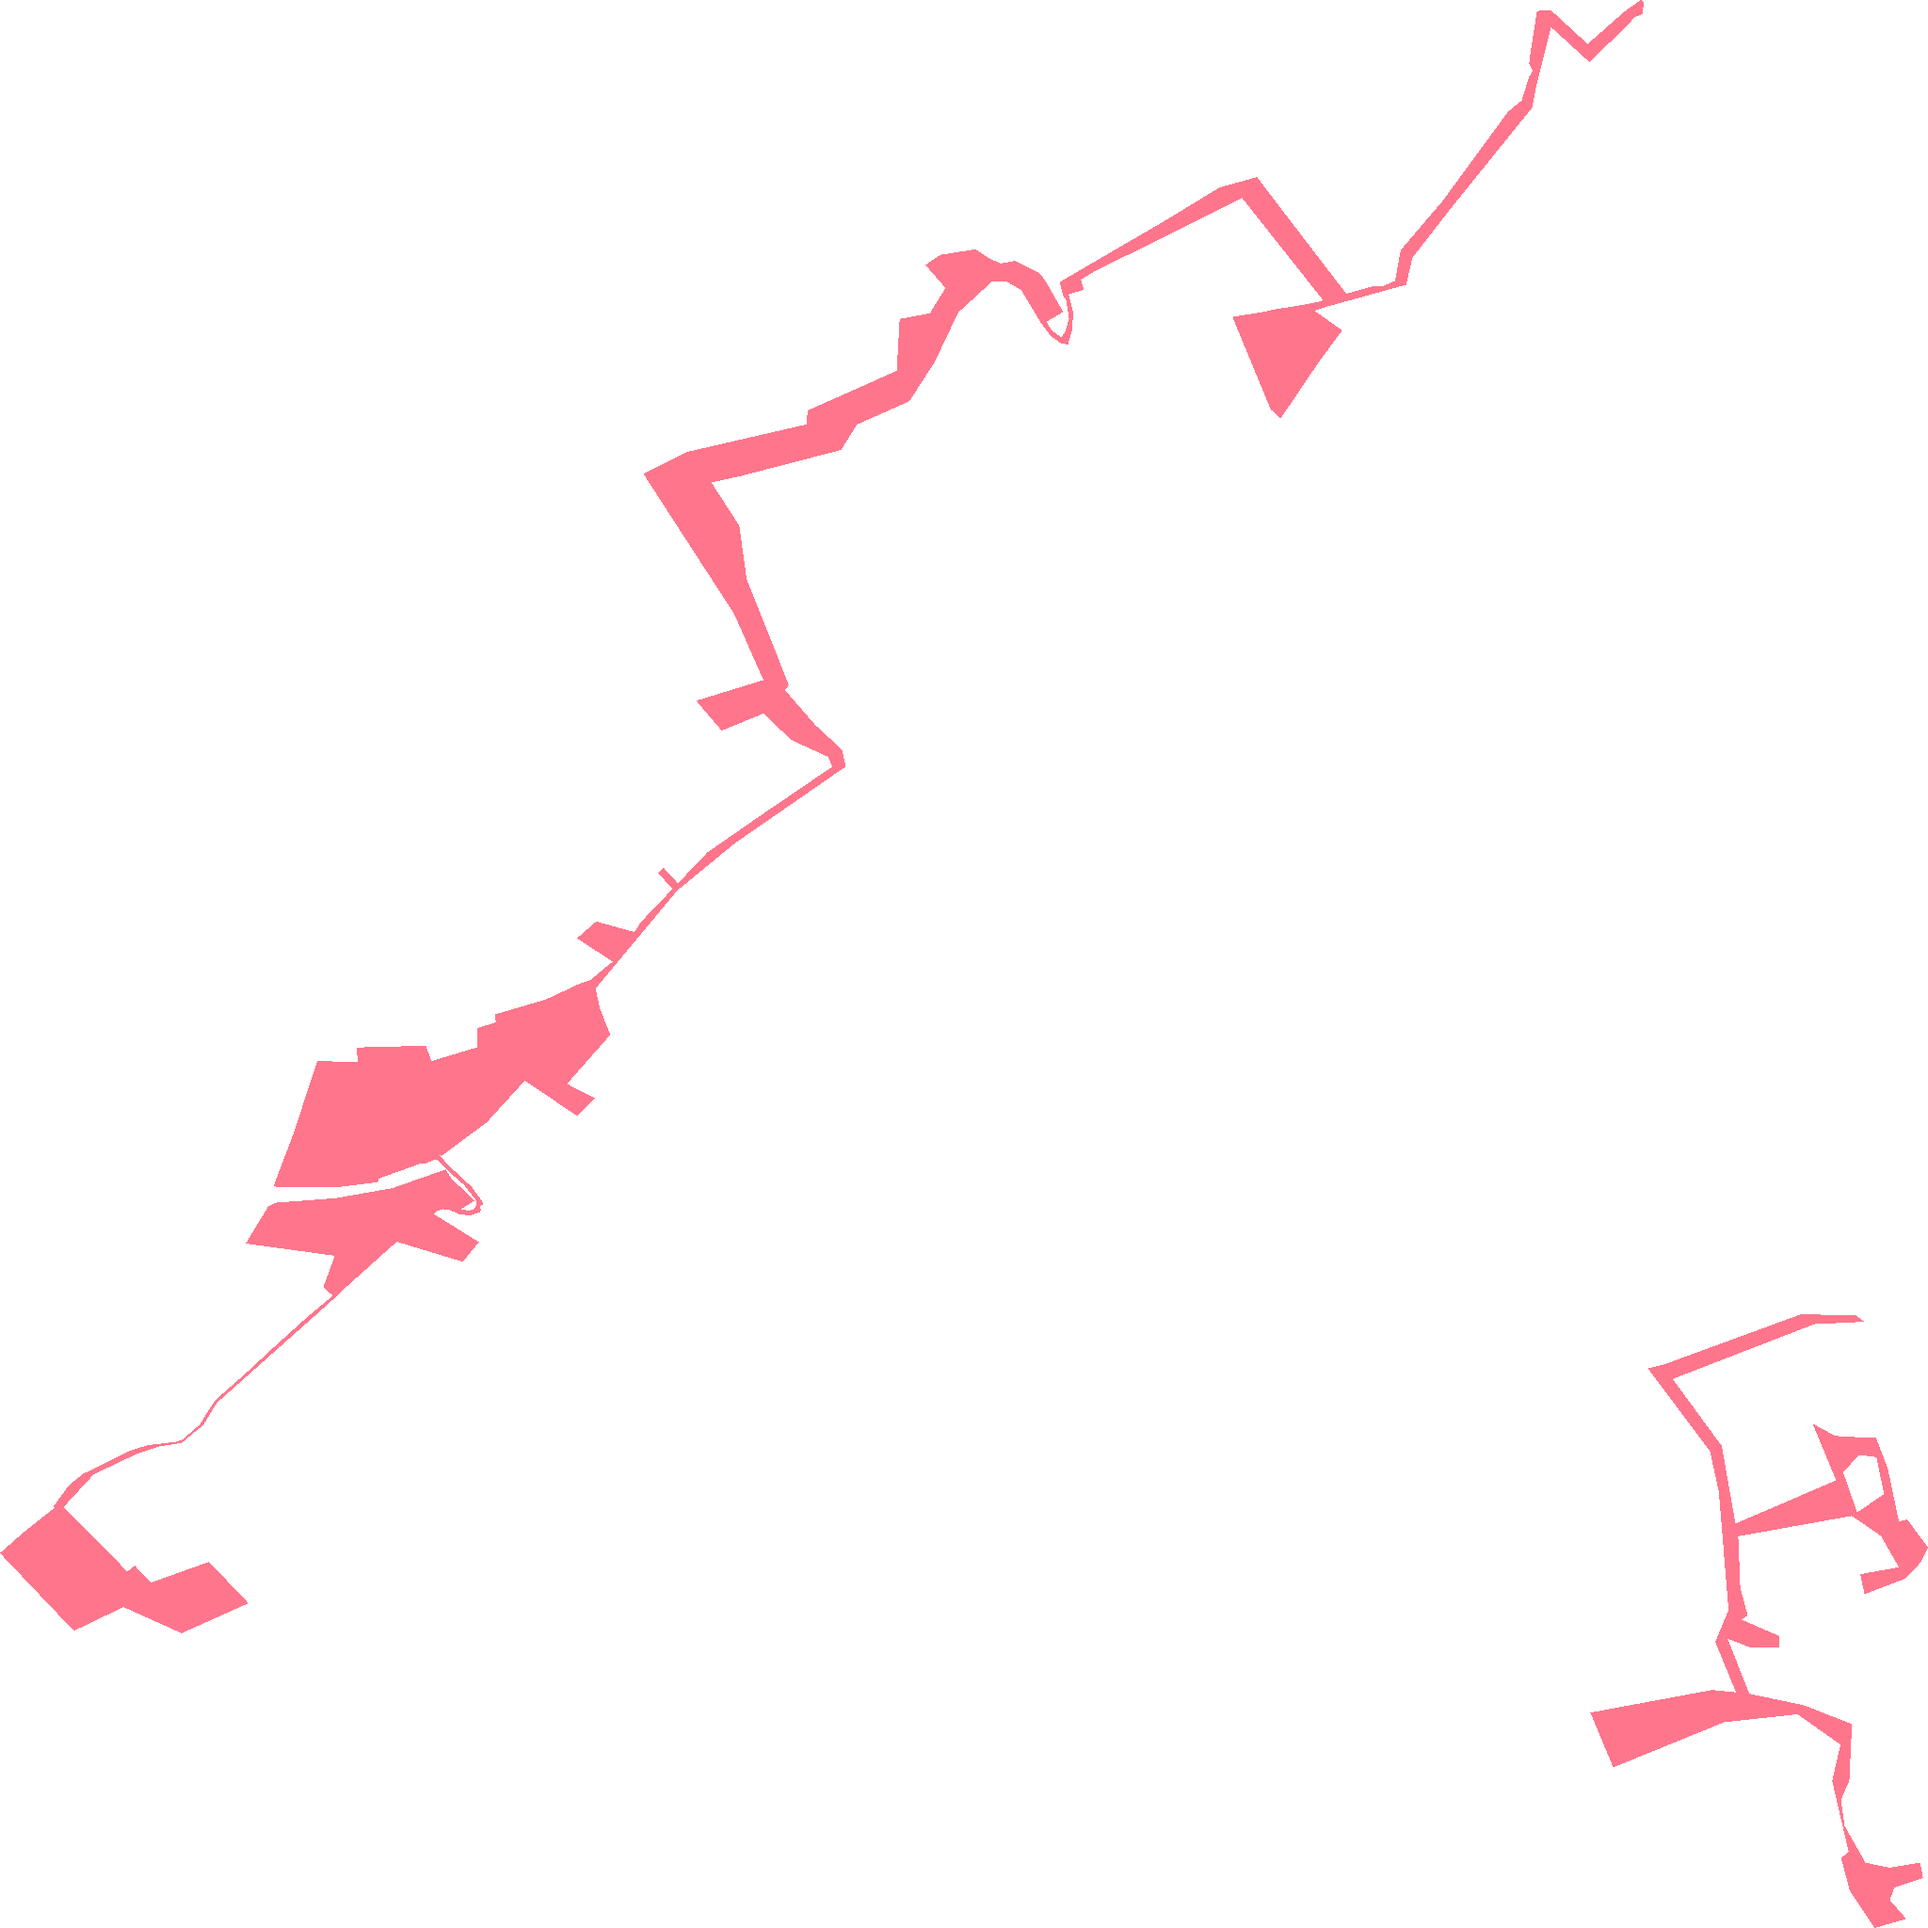
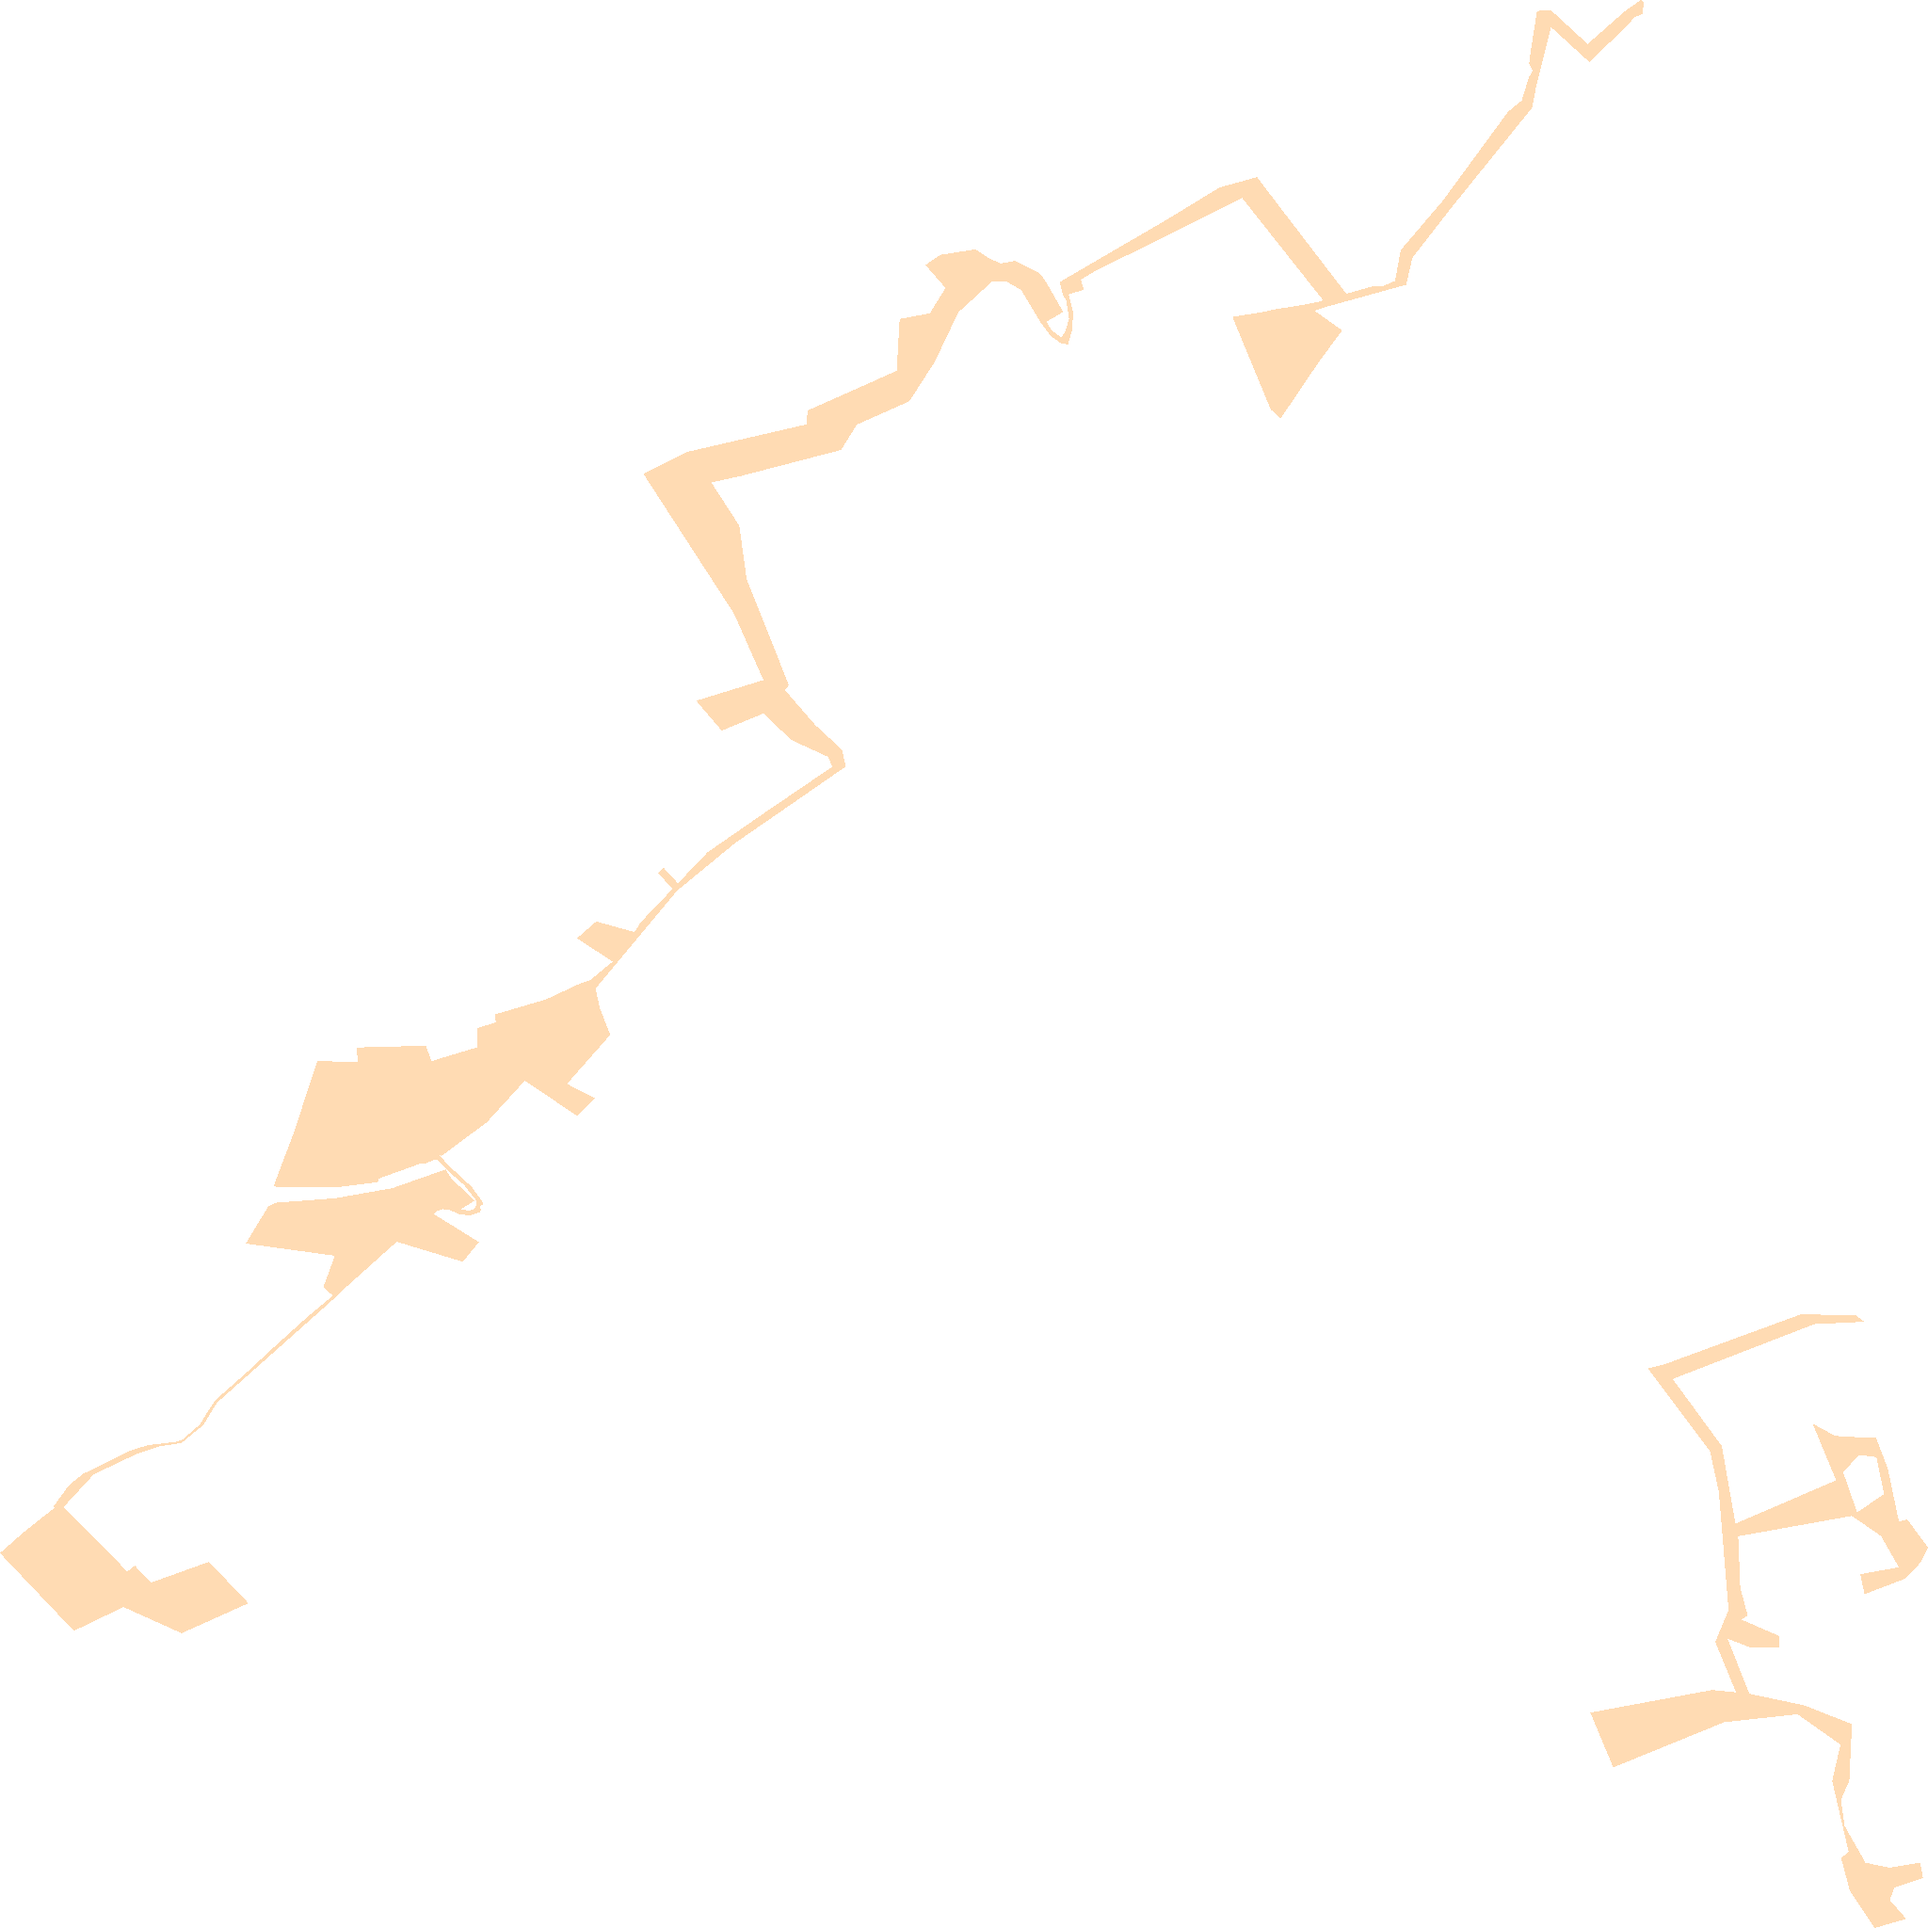
Karte sp_611

diff --git a/sp_611.html b/sp_611.html
@@ -60,7 +60,7 @@
         }
         .custom-control2 {
             position: absolute;
-            bottom: -320px;
+            top: 110px;
             left: 0px;
             background: white;
             padding: 5px;
@@ -77,24 +77,6 @@
         .custom-control:hover, .custom-control2:hover {
             background-color: #f0f0f0 !important;
         }
-        .leaflet-control-geocoder-icon {
-            background-color: white !important;
-            color: grey !important;
-            border: none !important;
-            width: 20px;
-            height: 20px;
-            display: flex;
-            justify-content: center;
-            align-items: center;
-            font-size: 15px;
-            font-family: 'Montserrat', sans-serif;
-            box-shadow: 0 1px 3px rgba(0, 0, 0, 0.3);
-            border-radius: 2px;
-            cursor: pointer;
-        }
-        .leaflet-control-geocoder-icon:hover {
-            background-color: #f0f0f0 !important;
-        }
         .custom-marker {
             width: 15px;
             height: 15px;
@@ -104,8 +86,8 @@
         }
         #legend {
             position: absolute;
-            bottom: 80px;
-            left: 55px;
+            top: 160px;
+            left: 10px;
             display: none;
             z-index: 1000;
             background: white;
@@ -128,8 +110,9 @@
 <body>
     <div id="map"></div>
     <div id="legend">
-        <div><span style="display:inline-block; width:20px; height:10px; background:#FF7F00; margin-right:5px;"></span>Ausbauphase 1: Ausbau bei ausreichender Nachfrage</div>
+        <div><span style="display:inline-block; width:20px; height:10px; background:#FF7F00; margin-right:5px;"></span>Ausbauphase 1: Glasfasernetz vorhanden oder geplant</div>
         <div><span style="display:inline-block;width:20px; height:10px; background:#00143C; margin-right:5px;"></span>Ausbauphase 2: Interessenbekundung möglich</div>
+        <div><span style="display:inline-block;width:20px; height:10px; background:#FFC17D; margin-right:5px;"></span>Ausbauphase 3: Gefördertes Ausbaugebiet </div>
     </div>
     <script>
     const bounds = [[50.443458553, 8.117441477], [50.49762026, 8.186041587]];
@@ -166,20 +149,6 @@
         });
         map.addControl(new legendControl());
         const markerLayerGroup = L.layerGroup().addTo(map);
-        const geocoder = L.Control.geocoder({
-            defaultMarkGeocode: false
-        })
-            .on('markgeocode', function (e) {
-                markerLayerGroup.clearLayers();
-                const latlng = e.geocode.center;
-                const customMarker = L.divIcon({
-                    className: 'custom-marker'
-                });
-                const marker = L.marker(latlng, { icon: customMarker });
-                markerLayerGroup.addLayer(marker);
-                map.fitBounds(bounds);
-            })
-            .addTo(map);
     </script>
 </body>
 </html>
